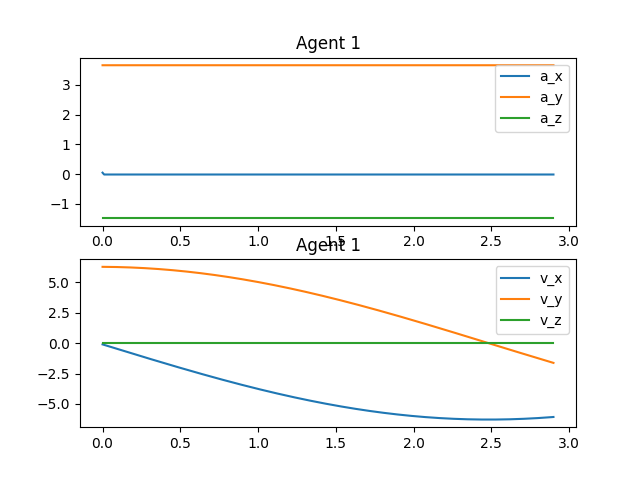
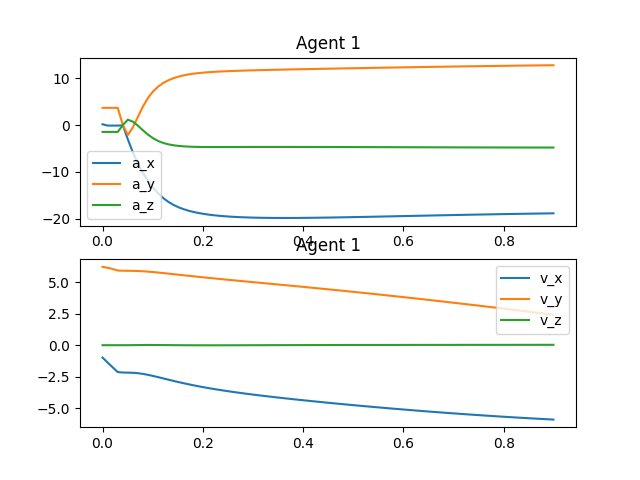
it worked with dt=0.1 only for the embedding

diff --git a/fixed_wing_swarm.py b/fixed_wing_swarm.py
@@ -15,7 +15,7 @@ r = 10
 T_p = 10
 phi_dot = 2*np.pi/T_p
 ic(phi_dot)
-t_max = 3
+t_max = 1
 
 t_min = 0
 k_phi = 1
@@ -84,9 +84,9 @@ for i in range(2,N-Nh):
                 controllers[k].set_initial_conditions(2)
         # ic(controllers[k].va_r_dot_body[:,i], controllers[k].wr_r[:,i],controllers[k].va_r_body[:,i],controllers[k].f_r[:,i],controllers[k].tau_r[:,i], controllers[k].d_wr_r[:,i])
             controllers[k].control(i, target_r[:,k], target_v[:,k], target_a[:,k])
-    pos_real = target_r#controllers[k].X[6:9,i].reshape(-1,1)#
-    # vel_real = controllers[k].X[3:6,i].reshape(-1,1)
-    vel_real = target_v
+    pos_real = controllers[k].X[6:9,i].reshape(-1,1)#target_r#
+    vel_real = controllers[k].X[3:6,i].reshape(-1,1)
+    # vel_real = target_v
 
 for i in range(n_agents):
     controllers[i].plot_angles()

diff --git a/embedding_SO3_sim.py b/embedding_SO3_sim.py
@@ -13,7 +13,7 @@ class Embedding():
         self.k_phi = k_phi
         self.tactic = tactic
         self.n = n_agents
-        self.dt = dt
+        self.dt = 10*dt
         self.Rot_des = np.zeros((3,3,self.n))
         self.Rot_act = np.zeros((3,3,self.n))
         if (self.tactic == 'circle') or (self.tactic == 'spiral'):
